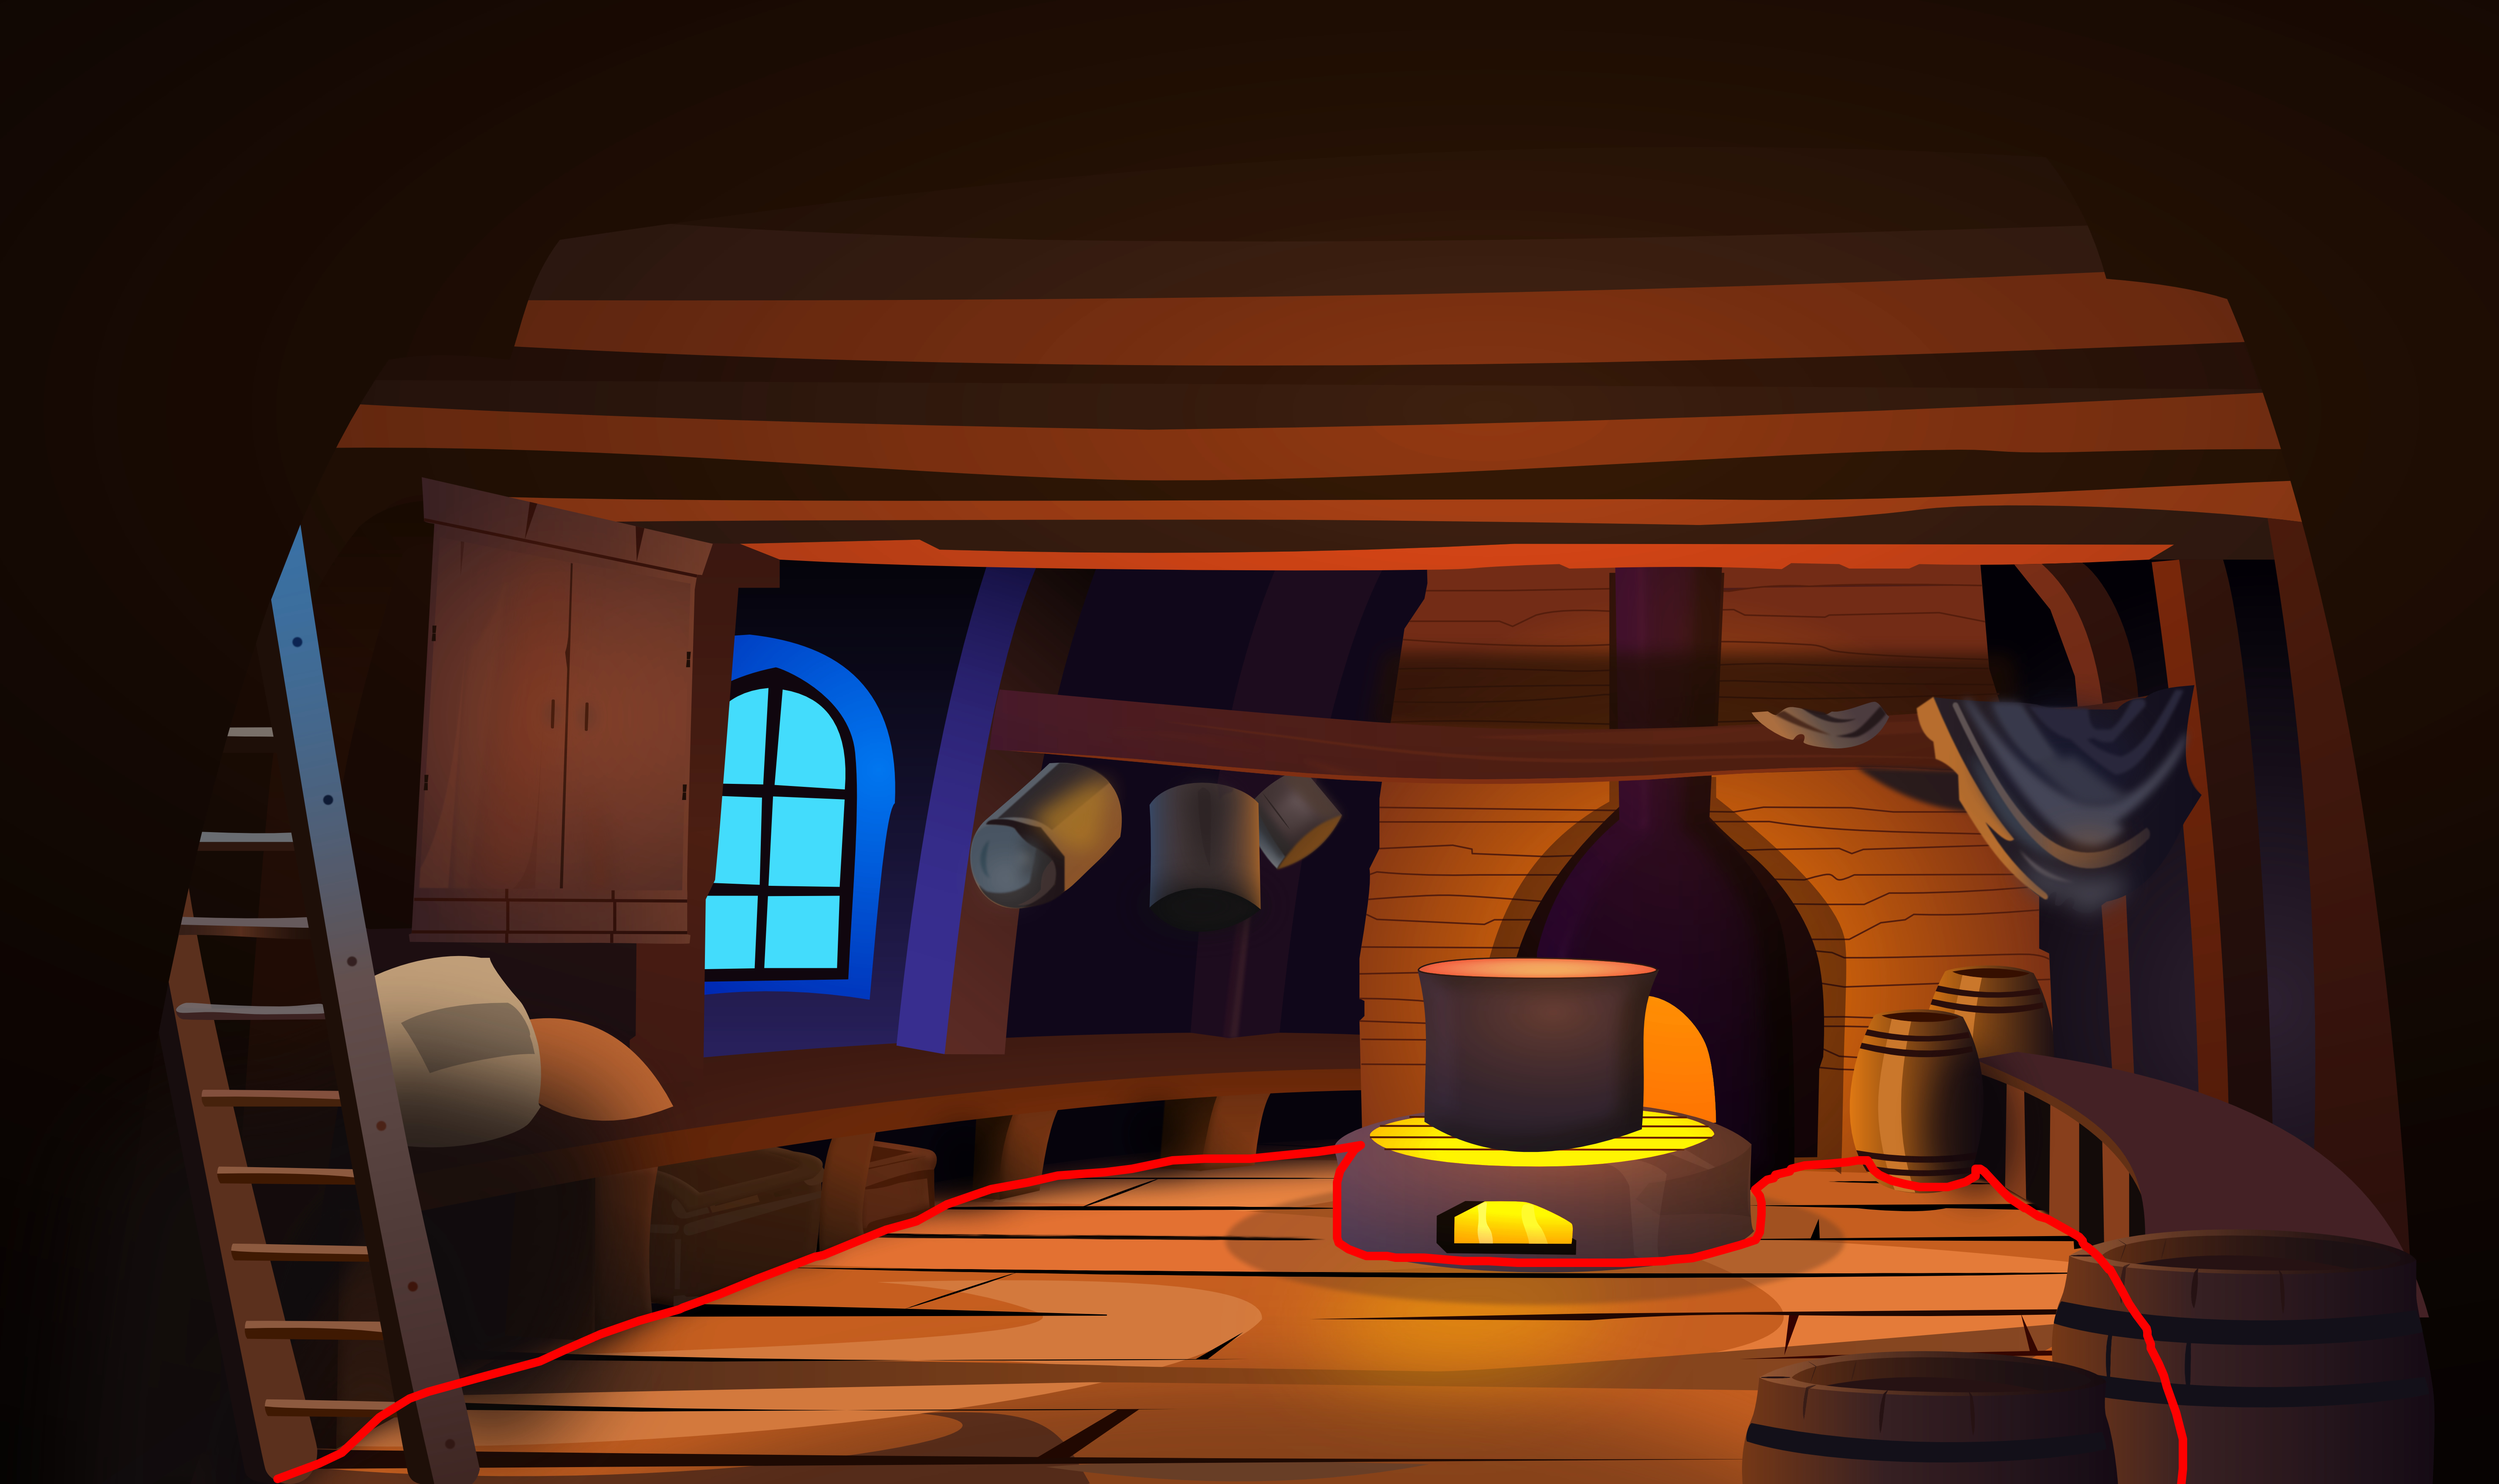
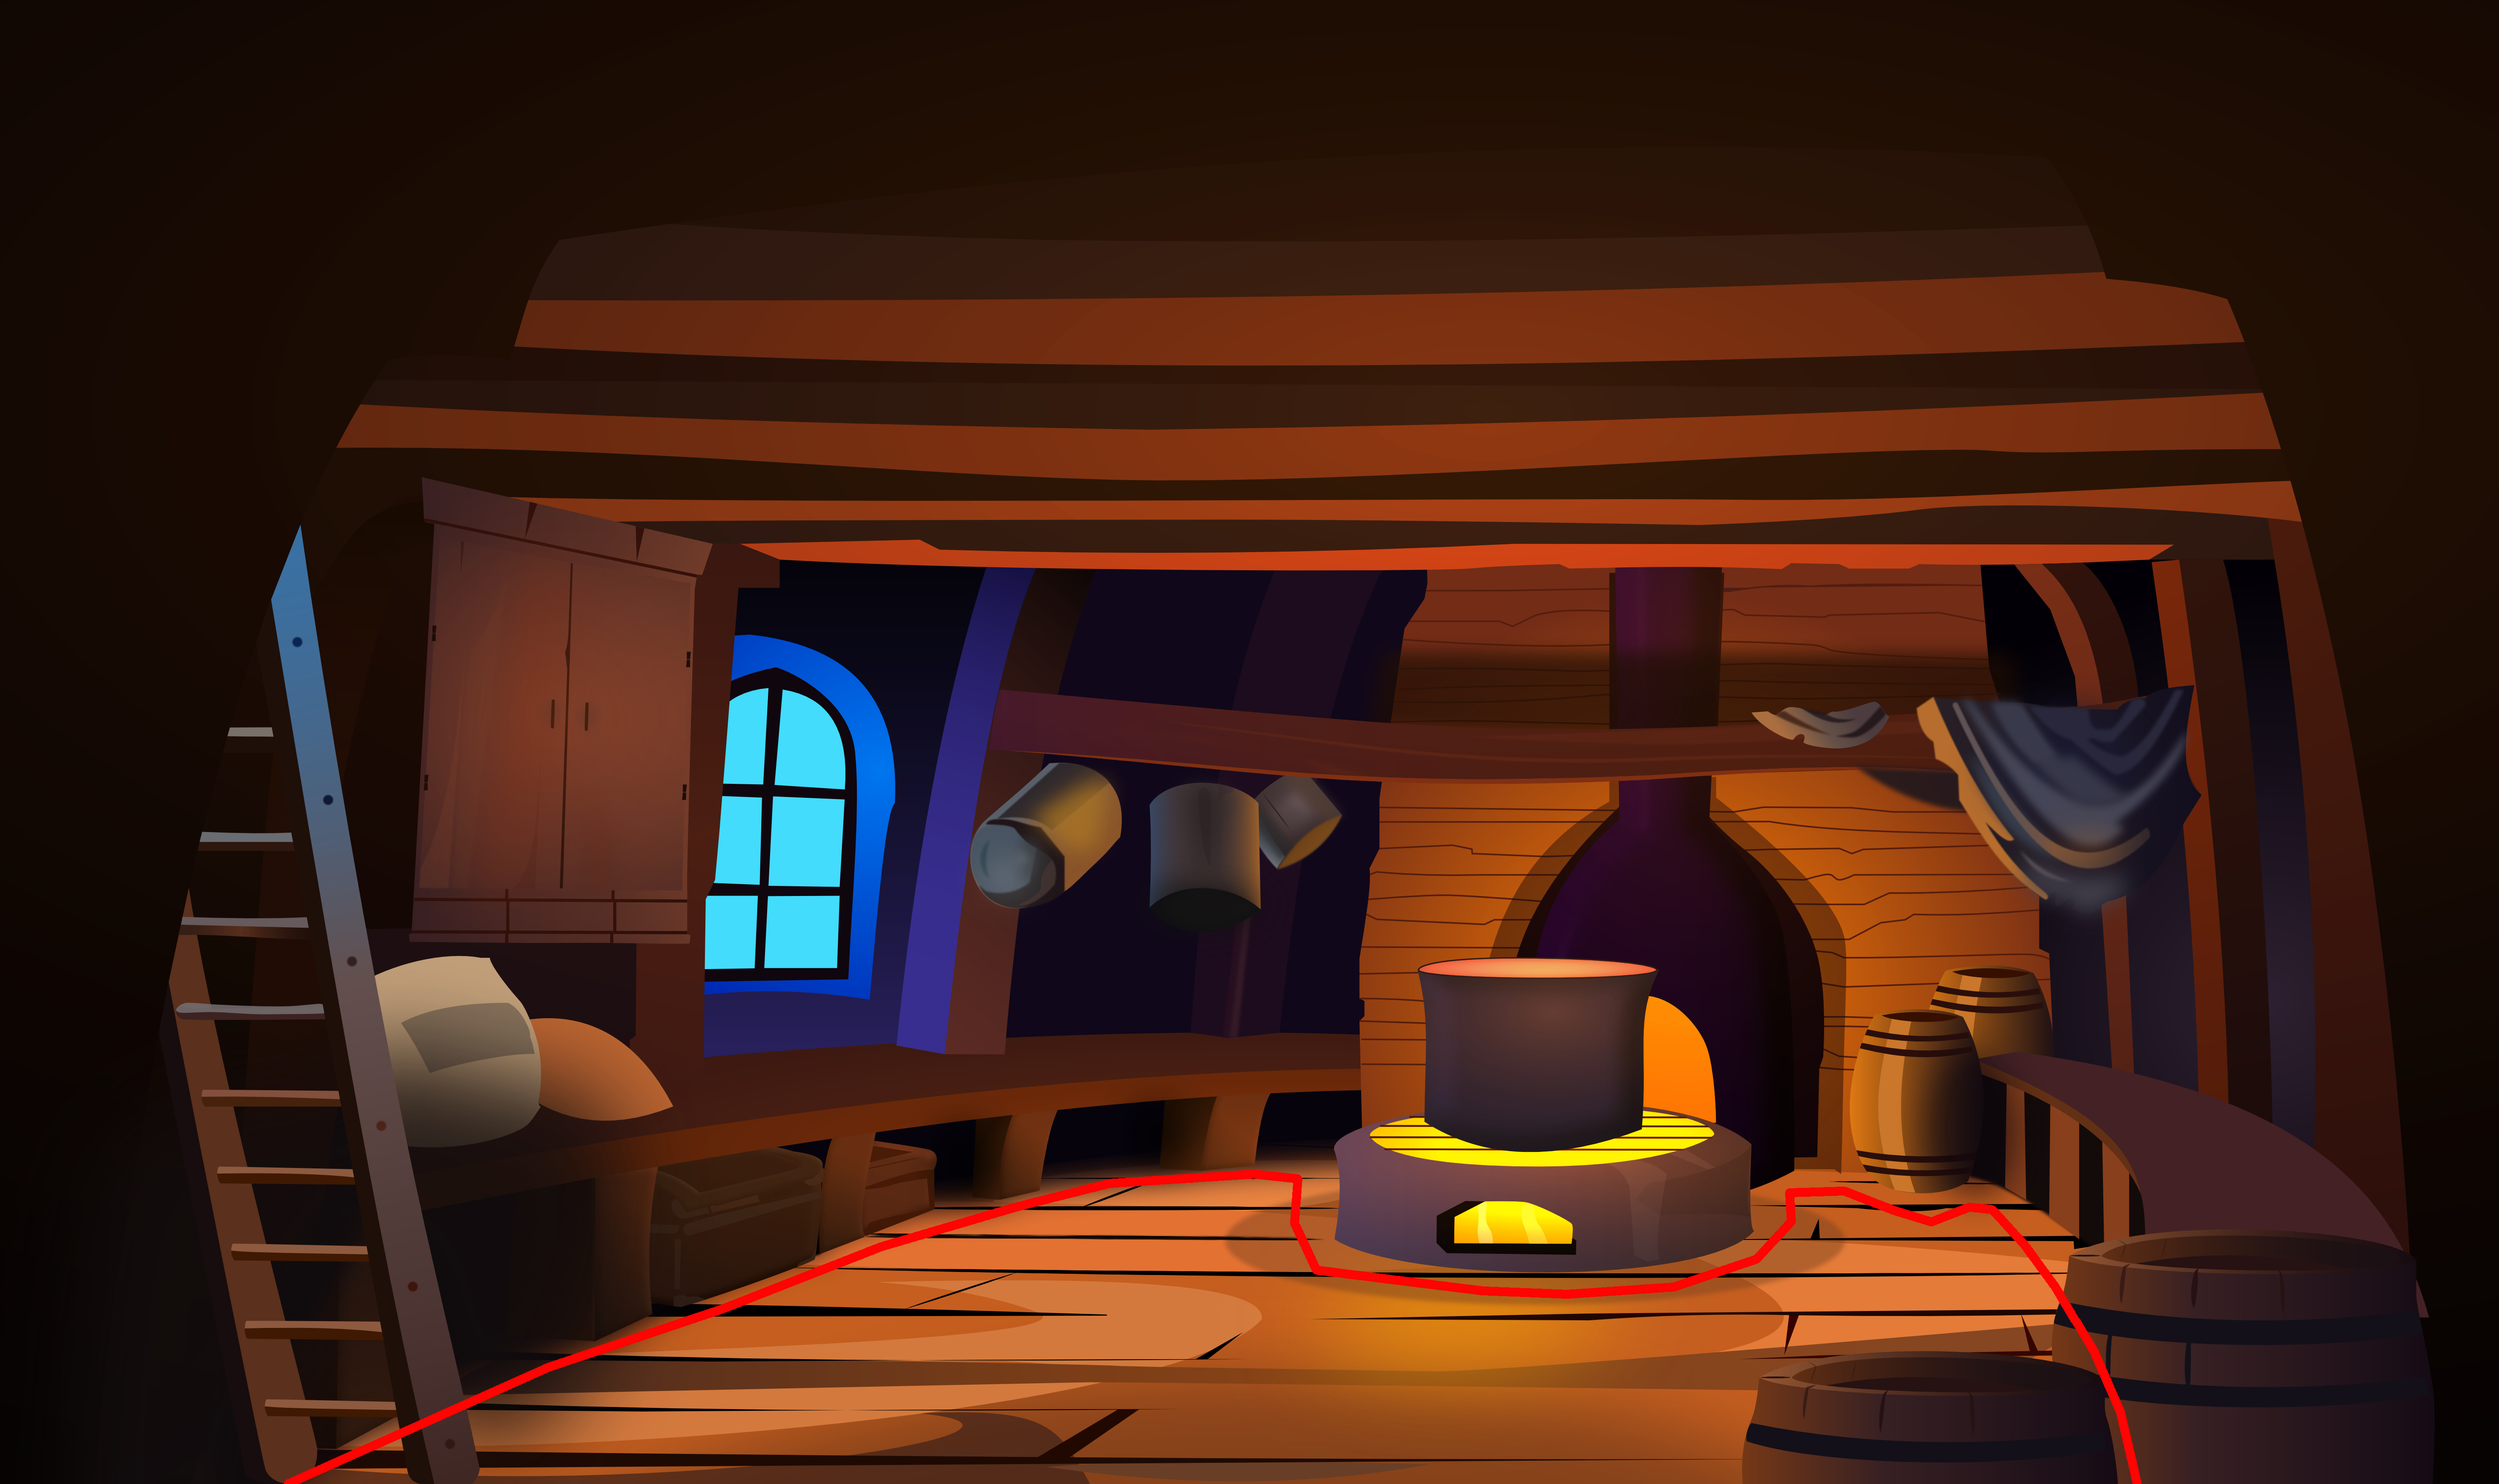
Add red-line walk bounds and depth-scaled Guybrush   movement.   Clamp feet to Background_bounding.jpg, keep scale from Y   only, and   speed up as he walks toward the camera.

diff --git a/src/game/WalkBounds.java b/src/game/WalkBounds.java
@@ -1,0 +1,203 @@
+package game;
+
+import java.awt.Color;
+import java.awt.Graphics;
+import java.awt.Graphics2D;
+import java.awt.image.BufferedImage;
+
+import assets.ImageLoader;
+import assets.ResourceRoot;
+
+/**
+ * Walkable floor from {@code Background_bounding.jpg}. Bright red (#FE0000-style)
+ * marks the back/side edge; feet may stand on or below that line.
+ */
+public final class WalkBounds {
+	private static final int MASK_WIDTH = 980;
+
+	private final int maskWidth;
+	private final int maskHeight;
+	/** Per mask column: back edge of the red stroke (smaller Y = farther into the room). */
+	private final int[] boundaryY;
+	private final boolean[] hasRed;
+	private final int minRedX;
+	private final int maxRedX;
+	/** Smallest boundary Y in mask space (farthest into the room). Used for depth scale. */
+	private int farthestBoundaryY;
+
+	public WalkBounds() {
+		BufferedImage full = ImageLoader.byFile(ResourceRoot.picture("Background_bounding.jpg"));
+		if (full == null) {
+			throw new IllegalStateException("Missing Background_bounding.jpg");
+		}
+		maskWidth = MASK_WIDTH;
+		maskHeight = Math.max(1, full.getHeight() * MASK_WIDTH / full.getWidth());
+		BufferedImage img = new BufferedImage(maskWidth, maskHeight, BufferedImage.TYPE_INT_RGB);
+		Graphics2D g = img.createGraphics();
+		g.drawImage(full, 0, 0, maskWidth, maskHeight, null);
+		g.dispose();
+
+		boundaryY = new int[maskWidth];
+		hasRed = new boolean[maskWidth];
+		int first = maskWidth;
+		int last = -1;
+
+		for (int x = 0; x < maskWidth; x++) {
+			int minY = Integer.MAX_VALUE;
+			for (int y = 0; y < maskHeight; y++) {
+				if (isMarkerRed(img.getRGB(x, y))) {
+					if (y < minY) {
+						minY = y;
+					}
+				}
+			}
+			if (minY != Integer.MAX_VALUE) {
+				boundaryY[x] = minY;
+				hasRed[x] = true;
+				if (x < first) {
+					first = x;
+				}
+				if (x > last) {
+					last = x;
+				}
+			}
+		}
+
+		minRedX = first < maskWidth ? first : 0;
+		maxRedX = last >= 0 ? last : maskWidth - 1;
+		fillGaps();
+		int far = maskHeight - 1;
+		for (int x = minRedX; x <= maxRedX; x++) {
+			if (boundaryY[x] < far) {
+				far = boundaryY[x];
+			}
+		}
+		farthestBoundaryY = far;
+	}
+
+	/** Pure marker red from the paint stroke — not warm wood / fire. */
+	private static boolean isMarkerRed(int argb) {
+		int r = (argb >> 16) & 0xFF;
+		int g = (argb >> 8) & 0xFF;
+		int b = argb & 0xFF;
+		return r >= 220 && g <= 60 && b <= 60 && (r - g) >= 150 && (r - b) >= 150;
+	}
+
+	private void fillGaps() {
+		for (int x = 0; x < maskWidth; x++) {
+			if (hasRed[x]) {
+				continue;
+			}
+			int left = -1;
+			int right = -1;
+			for (int i = x; i >= 0; i--) {
+				if (hasRed[i]) {
+					left = i;
+					break;
+				}
+			}
+			for (int i = x; i < maskWidth; i++) {
+				if (hasRed[i]) {
+					right = i;
+					break;
+				}
+			}
+			if (left >= 0 && right >= 0 && right != left) {
+				double t = (double) (x - left) / (right - left);
+				boundaryY[x] = (int) Math.round(boundaryY[left] * (1.0 - t) + boundaryY[right] * t);
+			} else if (left >= 0) {
+				boundaryY[x] = boundaryY[left];
+			} else if (right >= 0) {
+				boundaryY[x] = boundaryY[right];
+			} else {
+				boundaryY[x] = maskHeight - 1;
+			}
+		}
+	}
+
+	public double boundaryScreenY(double screenX, int screenW, int screenH) {
+		int sx = toMaskX(screenX, screenW);
+		return boundaryY[sx] * (double) screenH / maskHeight;
+	}
+
+	/**
+	 * Global far edge of the floor (smallest boundary Y), independent of X — so depth
+	 * scale does not jump when walking sideways past the stove bump.
+	 */
+	public double farthestScreenY(int screenH) {
+		return farthestBoundaryY * (double) screenH / maskHeight;
+	}
+
+	public boolean isWalkable(double footScreenX, double footScreenY, int screenW, int screenH) {
+		if (screenW <= 0 || screenH <= 0) {
+			return false;
+		}
+		if (footScreenY < 0 || footScreenY > screenH || footScreenX < 0 || footScreenX > screenW) {
+			return false;
+		}
+		int sx = toMaskX(footScreenX, screenW);
+		if (sx < minRedX || sx > maxRedX) {
+			return false;
+		}
+		double by = boundaryY[sx] * (double) screenH / maskHeight;
+		return footScreenY >= by;
+	}
+
+	public double[] defaultSpawn(int screenW, int screenH) {
+		double x = screenW * 0.5;
+		double top = boundaryScreenY(x, screenW, screenH);
+		double y = top + (screenH - top) * 0.55;
+		if (isWalkable(x, y, screenW, screenH)) {
+			return new double[] { x, y };
+		}
+		for (double ty = screenH * 0.98; ty >= screenH * 0.4; ty -= 3) {
+			for (double tx = screenW * 0.15; tx <= screenW * 0.85; tx += 6) {
+				if (isWalkable(tx, ty, screenW, screenH)) {
+					return new double[] { tx, ty };
+				}
+			}
+		}
+		return new double[] { screenW * 0.5, screenH * 0.9 };
+	}
+
+	/** Debug: green walkable fill + red boundary polyline. */
+	public void drawDebug(Graphics g, int screenW, int screenH) {
+		Graphics2D g2 = (Graphics2D) g.create();
+		try {
+			g2.setColor(new Color(40, 220, 80, 55));
+			for (int x = 0; x < screenW; x++) {
+				int sx = toMaskX(x + 0.5, screenW);
+				if (sx < minRedX || sx > maxRedX) {
+					continue;
+				}
+				int by = (int) Math.round(boundaryY[sx] * (double) screenH / maskHeight);
+				if (by < screenH) {
+					g2.drawLine(x, by, x, screenH - 1);
+				}
+			}
+			g2.setColor(new Color(255, 30, 30, 220));
+			int prevX = -1;
+			int prevY = -1;
+			for (int x = 0; x < screenW; x++) {
+				int sx = toMaskX(x + 0.5, screenW);
+				if (sx < minRedX || sx > maxRedX) {
+					prevX = -1;
+					continue;
+				}
+				int by = (int) Math.round(boundaryY[sx] * (double) screenH / maskHeight);
+				if (prevX >= 0) {
+					g2.drawLine(prevX, prevY, x, by);
+				}
+				prevX = x;
+				prevY = by;
+			}
+		} finally {
+			g2.dispose();
+		}
+	}
+
+	private int toMaskX(double screenX, int screenW) {
+		int sx = (int) Math.floor(screenX * maskWidth / screenW);
+		return Math.max(0, Math.min(maskWidth - 1, sx));
+	}
+}

diff --git a/src/game/Guybrush.java b/src/game/Guybrush.java
@@ -12,7 +12,8 @@ import assets.SpriteAnimation;
 import assets.SpriteSheet;
 
 /**
- * Guybrush with front/back/left/right walks (alibi-3D): depth changes scale.
+ * Guybrush with front/back/left/right walks. Position is foot contact on the
+ * walkable floor from {@link WalkBounds}.
  */
 public class Guybrush {
 	public enum Facing {
@@ -31,25 +32,28 @@ public class Guybrush {
 	}
 
 	private static final int WALK_FRAME_MS = 100;
-	private static final double MOVE_SPEED = 4;
-	private static final double DEPTH_SPEED = 0.9;
-	private static final double MIN_SCALE = 1;
-	private static final double MAX_SCALE = 3;
+	private static final double MOVE_SPEED = 5;
+	private static final double DEPTH_SPEED = 2.5;
+	/** Sprite is 64×96; keep on-screen size comparable to barrels/stove. */
+	private static final double MIN_SCALE = 3;
+	private static final double MAX_SCALE = 5;
 
 	private final Map<Facing, SpriteAnimation> walks = new EnumMap<>(Facing.class);
 	private final Map<Facing, BufferedImage> idles = new EnumMap<>(Facing.class);
-
-	private double x;
-	/** Depth on the ground plane: 0 = far (small), 1 = near (large). */
-	private double depth = 0.55;
-	private Facing facing = Facing.FRONT;
-	private boolean moving;
+	private final WalkBounds bounds;
 	private final int baseWidth;
 	private final int baseHeight;
-	private final double groundY;
 
-	public Guybrush(double startX, double groundY) {
-		this.groundY = groundY;
+	/** Foot position in screen pixels (bottom-center of the sprite). */
+	private double footX;
+	private double footY;
+	private Facing facing = Facing.FRONT;
+	private boolean moving;
+
+	public Guybrush(WalkBounds bounds, double footX, double footY) {
+		this.bounds = bounds;
+		this.footX = footX;
+		this.footY = footY;
 		int refW = 0;
 		int refH = 0;
 		BufferedImage sideIdle = ImageLoader.keyWhiteAndTeal(ImageLoader.byFile(ResourceRoot.guybrushSideIdle()));
@@ -80,7 +84,6 @@ public class Guybrush {
 		}
 		baseWidth = refW;
 		baseHeight = refH;
-		this.x = startX;
 	}
 
 	/**
@@ -122,45 +125,61 @@ public class Guybrush {
 		}
 	}
 
-	public void update(int minX, int maxX, double minDepth, double maxDepth) {
+	public void update(int screenW, int screenH) {
 		if (!moving) {
 			return;
 		}
+		// Screen-space speed tracks sprite scale so far/near feel like constant world speed.
+		double speedScale = scale(screenW, screenH) / MIN_SCALE;
+		double move = MOVE_SPEED * speedScale;
+		double depth = DEPTH_SPEED * speedScale;
+		double nx = footX;
+		double ny = footY;
 		switch (facing) {
-		case LEFT -> x -= MOVE_SPEED;
-		case RIGHT -> x += MOVE_SPEED;
-		case BACK -> depth -= DEPTH_SPEED / 100.0;
-		case FRONT -> depth += DEPTH_SPEED / 100.0;
+		case LEFT -> nx -= move;
+		case RIGHT -> nx += move;
+		case BACK -> ny -= depth;
+		case FRONT -> ny += depth;
 		}
-		depth = Math.max(minDepth, Math.min(maxDepth, depth));
-		double drawW = baseWidth * scale();
-		x = Math.max(minX, Math.min(maxX - drawW, x));
-		walks.get(facing).update();
+
+		if (tryMove(nx, ny, screenW, screenH)) {
+			walks.get(facing).update();
+			return;
+		}
+		// Slide along the boundary when blocked on one axis.
+		if (tryMove(nx, footY, screenW, screenH) || tryMove(footX, ny, screenW, screenH)) {
+			walks.get(facing).update();
+		}
 	}
 
-	private double scale() {
-		return MIN_SCALE + (MAX_SCALE - MIN_SCALE) * depth;
+	private boolean tryMove(double nx, double ny, int screenW, int screenH) {
+		if (bounds.isWalkable(nx, ny, screenW, screenH)) {
+			footX = nx;
+			footY = ny;
+			return true;
+		}
+		return false;
 	}
 
-	public void draw(Graphics g) {
-		double scale = scale();
+	private double scale(int screenW, int screenH) {
+		// Depth from foot Y only (not local boundary at X), so left/right keeps size.
+		double far = bounds.farthestScreenY(screenH);
+		double span = Math.max(1.0, screenH - far);
+		double t = (footY - far) / span;
+		t = Math.max(0.0, Math.min(1.0, t));
+		return MIN_SCALE + (MAX_SCALE - MIN_SCALE) * t;
+	}
+
+	public void draw(Graphics g, int screenW, int screenH) {
+		double scale = scale(screenW, screenH);
 		int drawW = Math.max(1, (int) Math.round(baseWidth * scale));
 		int drawH = Math.max(1, (int) Math.round(baseHeight * scale));
-		double groundAtDepth = groundY - (1.0 - depth) * (groundY * 0.35);
-		int drawX = (int) Math.round(x);
-		int drawY = (int) Math.round(groundAtDepth - drawH);
+		int drawX = (int) Math.round(footX - drawW / 2.0);
+		int drawY = (int) Math.round(footY - drawH);
 
 		BufferedImage frame = moving ? walks.get(facing).currentFrame() : idles.get(facing);
 		if (frame != null) {
 			g.drawImage(frame, drawX, drawY, drawW, drawH, null);
 		}
-	}
-
-	public int getDrawWidth() {
-		return (int) Math.round(baseWidth * scale());
-	}
-
-	public int getDrawHeight() {
-		return (int) Math.round(baseHeight * scale());
 	}
 }

diff --git a/src/gui/screens/GameScreen.java b/src/gui/screens/GameScreen.java
@@ -19,10 +19,12 @@ import game.GameFonts;
 import game.GameRoot;
 import game.Guybrush;
 import game.Screens;
+import game.WalkBounds;
 import gui.GamePanel;
 
-/** Playable area: WASD / arrows for alibi-3D walk (front/back/left/right). */
+/** Playable area: WASD / arrows; movement clamped to the red walk bounds. */
 public class GameScreen extends GamePanel {
+	private final WalkBounds walkBounds;
 	private final Guybrush guybrush;
 	private boolean left, right, up, down;
 
@@ -34,7 +36,9 @@ public class GameScreen extends GamePanel {
 		setBackgroundImage(ImageLoader.byFile(ResourceRoot.picture("Background_closed.jpg")));
 		setForegroundImage(ImageLoader.byFile(ResourceRoot.picture("Foreground.png")));
 
-		guybrush = new Guybrush(dimension.width / 2.0 - 40, dimension.height - 36);
+		walkBounds = new WalkBounds();
+		double[] spawn = walkBounds.defaultSpawn(dimension.width, dimension.height);
+		guybrush = new Guybrush(walkBounds, spawn[0], spawn[1]);
 
 		JLabel back = new JLabel("Back", SwingConstants.CENTER);
 		back.setFont(GameFonts.display(Math.max(28, dimension.height / 16f)));
@@ -110,10 +114,12 @@ public class GameScreen extends GamePanel {
 	@Override
 	protected void paintComponent(Graphics g) {
 		paintBackground(g);
-		
-		guybrush.update(0, getWidth(), 0.15, 1.0);
-		guybrush.draw(g);
-		
+
+		walkBounds.drawDebug(g, getWidth(), getHeight());
+
+		guybrush.update(getWidth(), getHeight());
+		guybrush.draw(g, getWidth(), getHeight());
+
 		paintForeground(g);
 	}
 }
